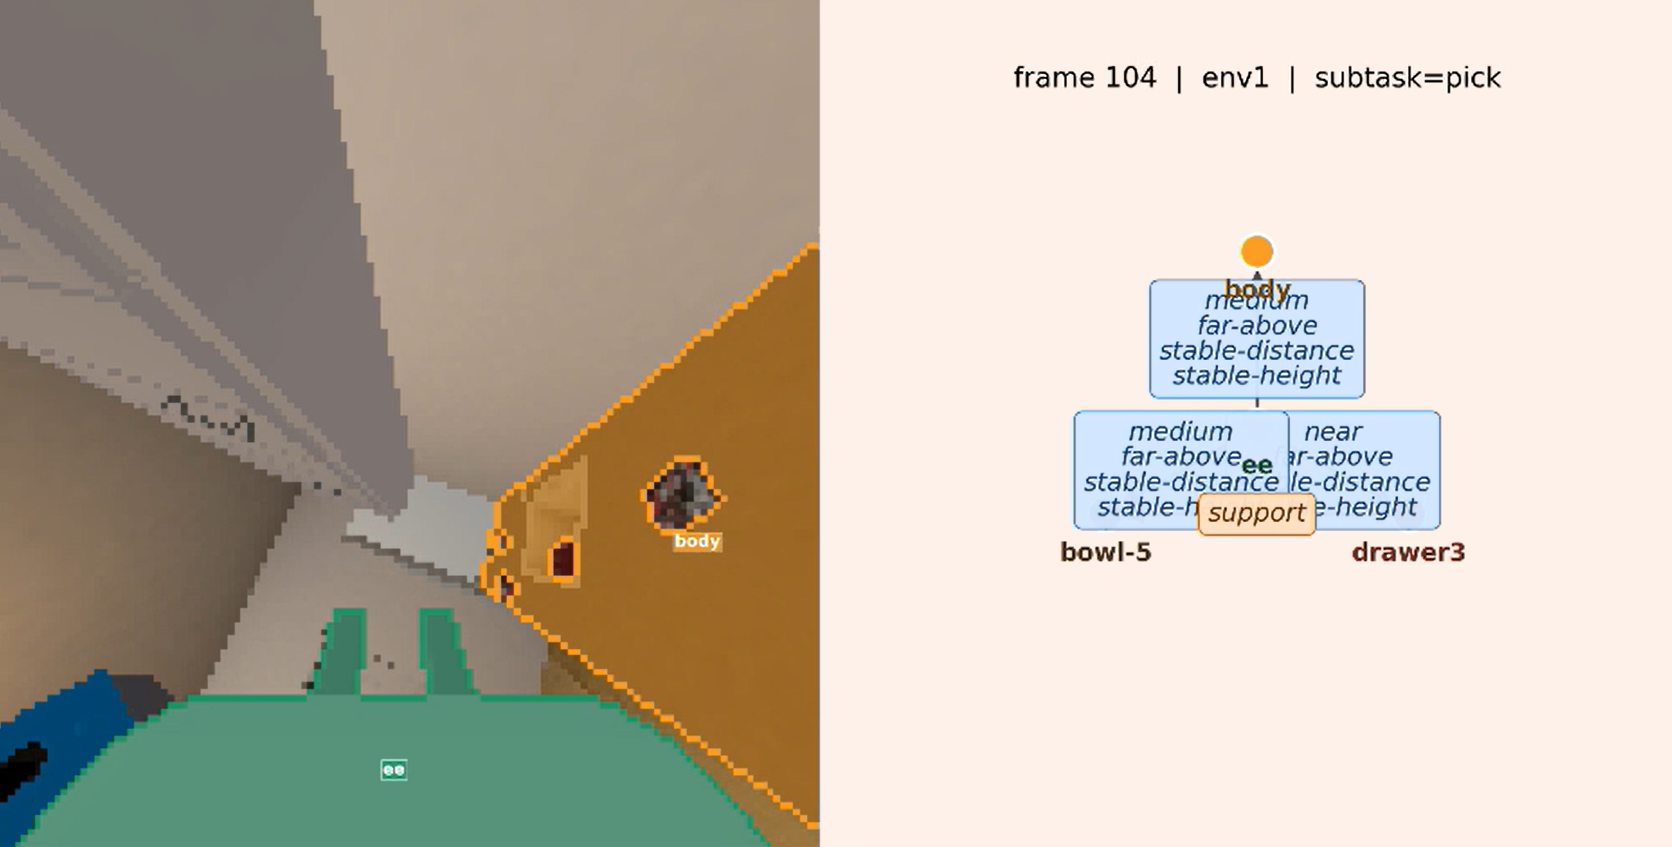
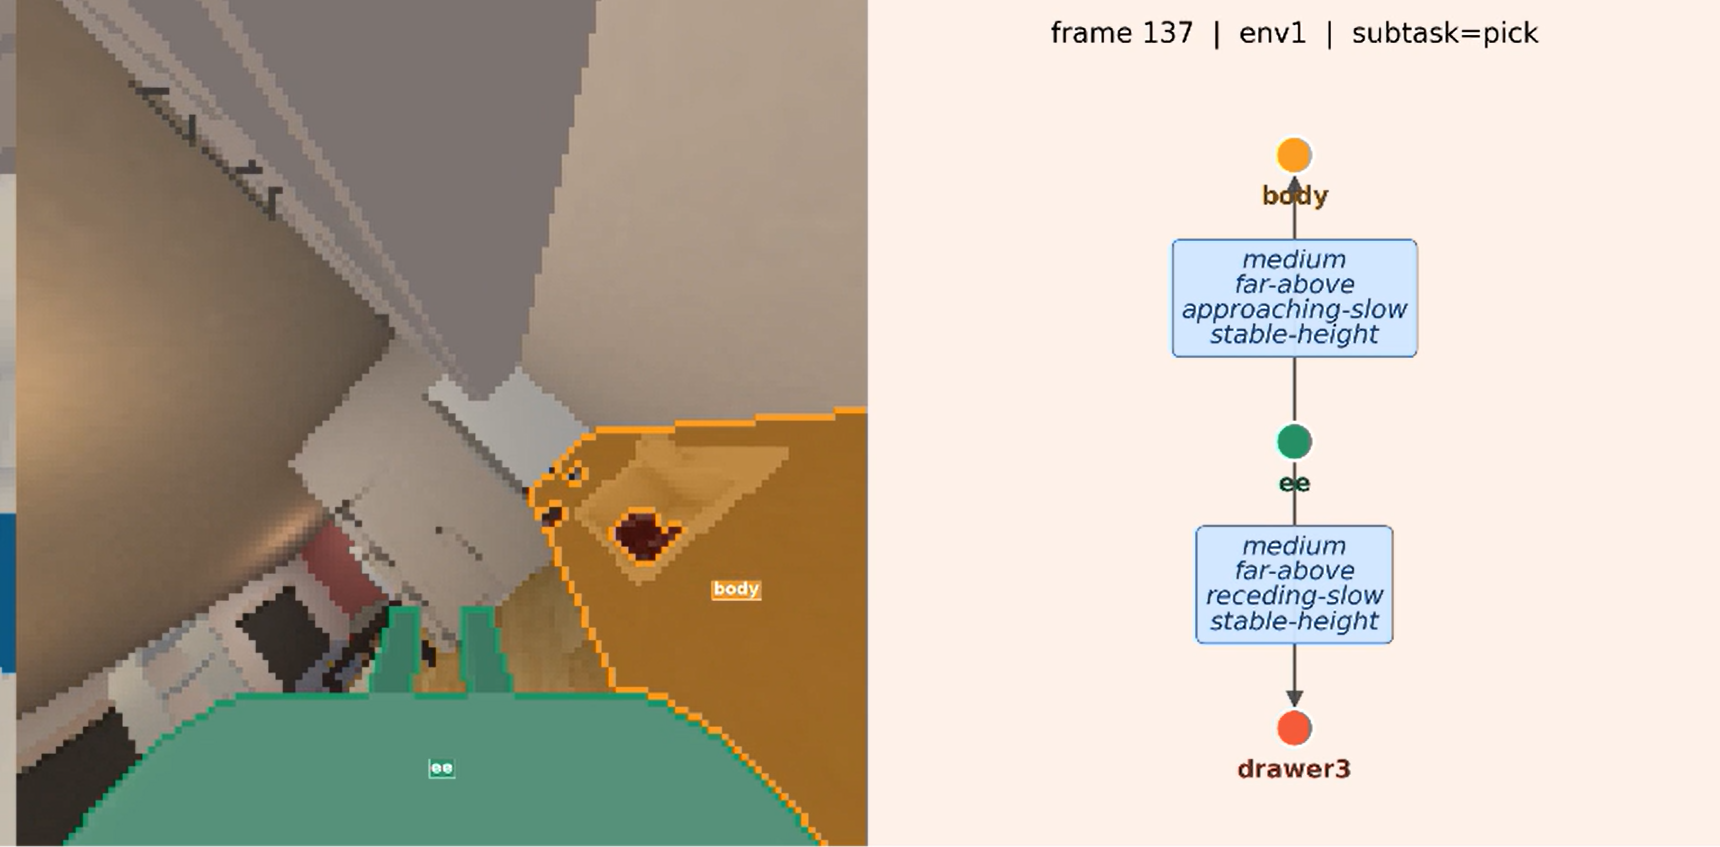
m

diff --git a/teemo_sim_probe/viz/graph_draw.py b/teemo_sim_probe/viz/graph_draw.py
@@ -84,11 +84,14 @@ _FAMILY_STYLE: Dict[str, Dict[str, str]] = {
 # overlap between real chip rectangles.
 def _chip_layout(n_obj: int) -> Dict[str, float]:
     if n_obj <= 4:
-        fontsize, fraction = 13.0, 0.50
+        fontsize, fraction = 9.5, 0.50
     elif n_obj <= 7:
-        fontsize, fraction = 11.0, 0.60
+        fontsize, fraction = 8.0, 0.60
     else:
-        fontsize, fraction = 9.0, 0.70
+        fontsize, fraction = 7.0, 0.70
+    # Chip rectangle size scales with fontsize; the collision constants were
+    # measured against a 13pt chip that covered ~2.5 x 1.8 axes units, so we
+    # scale from that reference.
     scale = fontsize / 13.0
     return {
         "fontsize": fontsize,